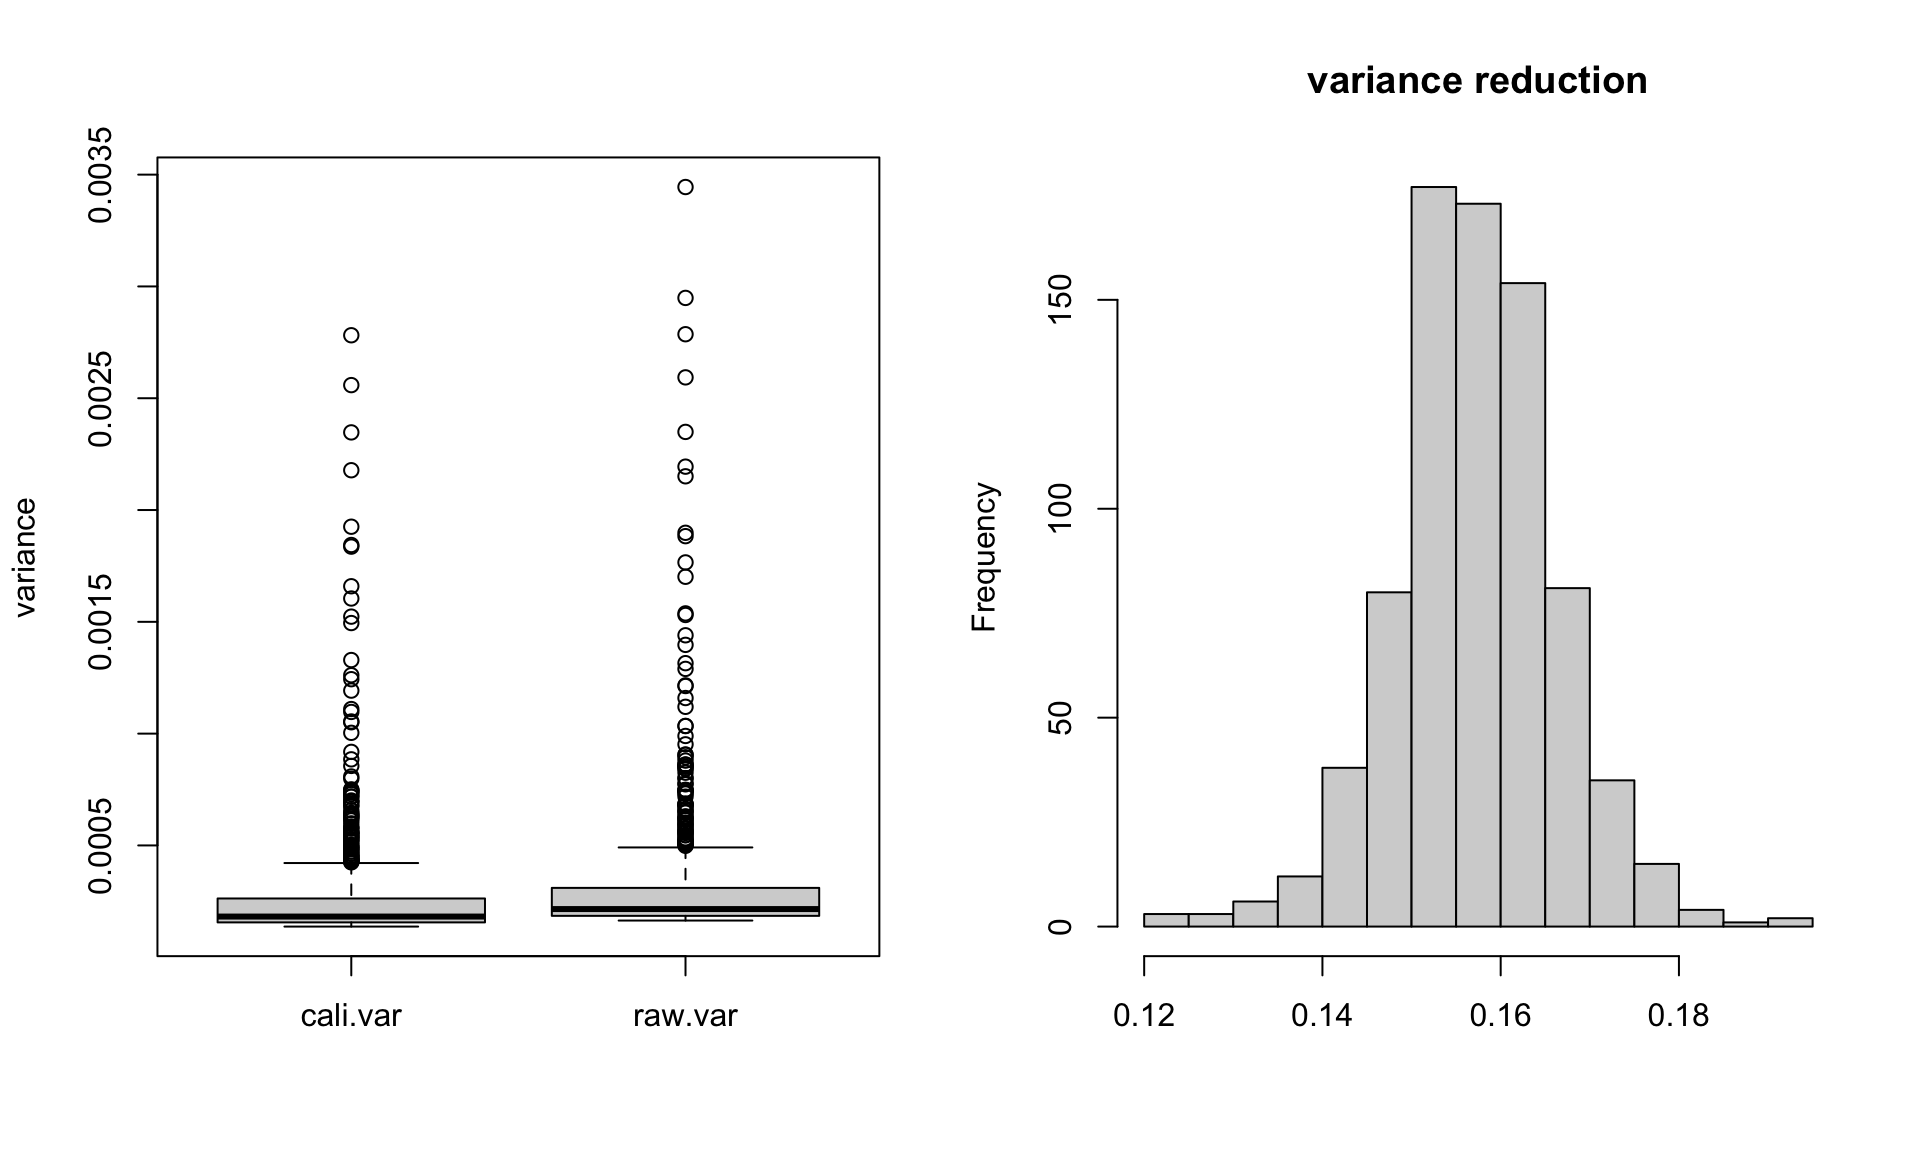
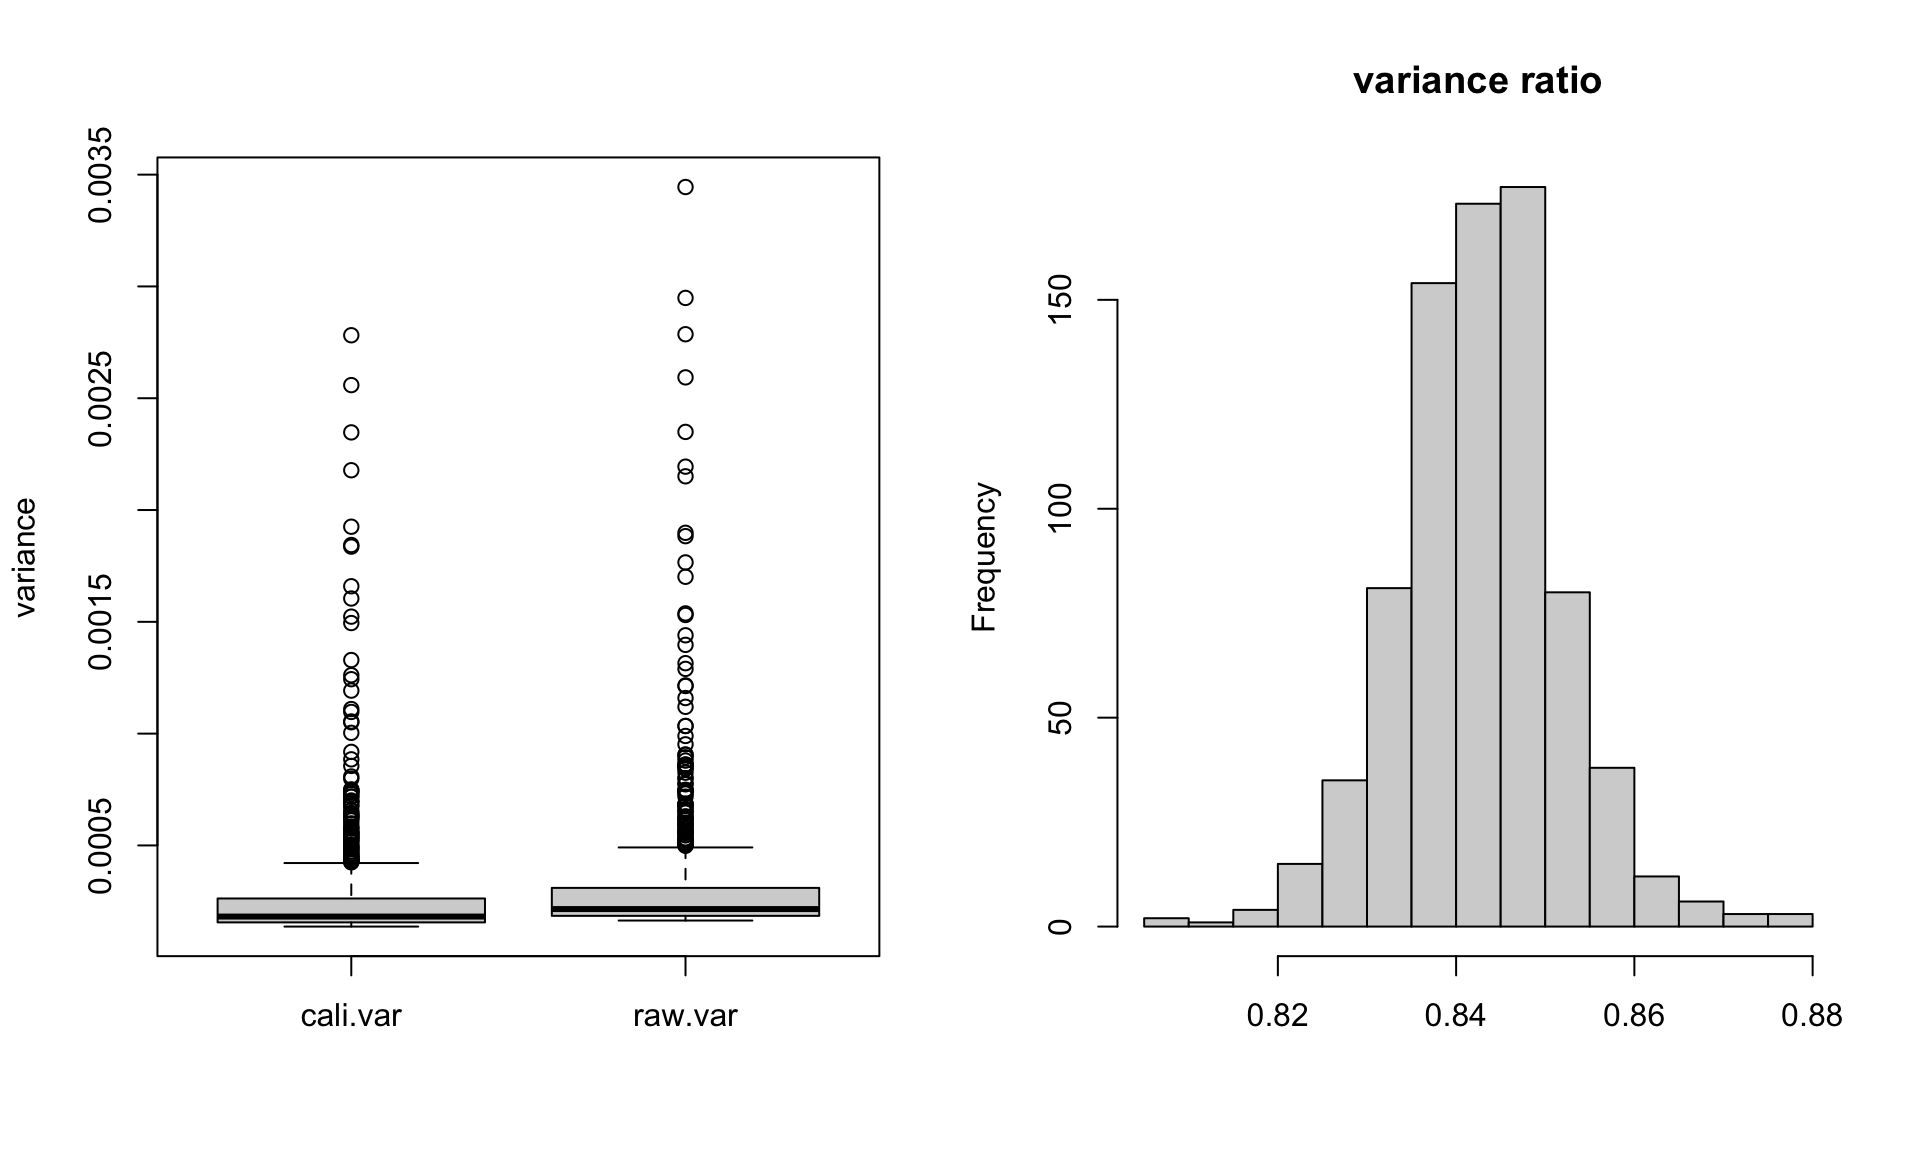
Build site.

diff --git a/docs/ukb_trait_calibration_sib.html b/docs/ukb_trait_calibration_sib.html
@@ -384,7 +384,7 @@ div.tocify {
 <div class="tab-content">
 <div id="summary" class="tab-pane fade in active">
 <p>
-<strong>Last updated:</strong> 2024-05-13
+<strong>Last updated:</strong> 2024-05-15
 </p>
 <p>
 <strong>Checks:</strong> <span class="glyphicon glyphicon-ok text-success" aria-hidden="true"></span> 7 <span class="glyphicon glyphicon-exclamation-sign text-danger" aria-hidden="true"></span> 0
@@ -475,16 +475,16 @@ This reproducible <a href="http://rmarkdown.rstudio.com">R Markdown</a> analysis
 <div class="panel panel-default">
 <div class="panel-heading">
 <p class="panel-title">
-<a data-toggle="collapse" data-parent="#workflowr-checks" href="#strongRepositoryversionstrongahrefhttpsgithubcomyunqiyang0215simulationcalibratedmrtree8581ebae091ebfb218a159ac72eaa2dbd3bc3c6atargetblank8581ebaa"> <span class="glyphicon glyphicon-ok text-success" aria-hidden="true"></span> <strong>Repository version:</strong> <a href="https://github.com/yunqiyang0215/simulation-calibrated-mr/tree/8581ebae091ebfb218a159ac72eaa2dbd3bc3c6a" target="_blank">8581eba</a> </a>
+<a data-toggle="collapse" data-parent="#workflowr-checks" href="#strongRepositoryversionstrongahrefhttpsgithubcomyunqiyang0215simulationcalibratedmrtree53af4b9a38be5829d8d97d7255de6143aabdc7d9targetblank53af4b9a"> <span class="glyphicon glyphicon-ok text-success" aria-hidden="true"></span> <strong>Repository version:</strong> <a href="https://github.com/yunqiyang0215/simulation-calibrated-mr/tree/53af4b9a38be5829d8d97d7255de6143aabdc7d9" target="_blank">53af4b9</a> </a>
 </p>
 </div>
[2 lines of base64/hex data omitted]
 <div class="panel-body">
 <p>
 Great! You are using Git for version control. Tracking code development and connecting the code version to the results is critical for reproducibility.
 </p>
 <p>
-The results in this page were generated with repository version <a href="https://github.com/yunqiyang0215/simulation-calibrated-mr/tree/8581ebae091ebfb218a159ac72eaa2dbd3bc3c6a" target="_blank">8581eba</a>. See the <em>Past versions</em> tab to see a history of the changes made to the R Markdown and HTML files.
+The results in this page were generated with repository version <a href="https://github.com/yunqiyang0215/simulation-calibrated-mr/tree/53af4b9a38be5829d8d97d7255de6143aabdc7d9" target="_blank">53af4b9</a>. See the <em>Past versions</em> tab to see a history of the changes made to the R Markdown and HTML files.
 </p>
 <p>
 Note that you need to be careful to ensure that all relevant files for the analysis have been committed to Git prior to generating the results (you can use <code>wflow_publish</code> or <code>wflow_git_commit</code>). workflowr only checks the R Markdown file, but you know if there are other scripts or data files that it depends on. Below is the status of the Git repository when the results were generated:
@@ -538,6 +538,40 @@ Message
 </tr>
 </thead>
 <tbody>
+<tr>
+<td>
+Rmd
+</td>
+<td>
+<a href="https://github.com/yunqiyang0215/simulation-calibrated-mr/blob/53af4b9a38be5829d8d97d7255de6143aabdc7d9/analysis/ukb_trait_calibration_sib.Rmd" target="_blank">53af4b9</a>
+</td>
+<td>
+yunqiyang0215
+</td>
+<td>
+2024-05-15
+</td>
+<td>
+wflow_publish("analysis/ukb_trait_calibration_sib.Rmd")
+</td>
+</tr>
+<tr>
+<td>
+html
+</td>
+<td>
+<a href="https://rawcdn.githack.com/yunqiyang0215/simulation-calibrated-mr/0ba6b1a084d61641780f934ae7f2198744bfbc51/docs/ukb_trait_calibration_sib.html" target="_blank">0ba6b1a</a>
+</td>
+<td>
+yunqiyang0215
+</td>
+<td>
+2024-05-13
+</td>
+<td>
+Build site.
+</td>
+</tr>
 <tr>
 <td>
 Rmd
@@ -712,10 +746,8 @@ sum(pval.ext &lt; 1e-8)</code></pre>
 <h4>Calibration result</h4>
 <pre class="r"><code>par(mfrow = c(1, 2))
 boxplot(dat[, c(&quot;cali.var&quot;, &quot;raw.var&quot;)], ylab = &quot;variance&quot;)
-vr = (dat$raw.var - dat$cali.var)/dat$raw.var
-mean(vr)</code></pre>
-<pre><code>[1] 0.1572405</code></pre>
-<pre class="r"><code>hist(vr, main = &quot;variance reduction&quot;, xlab = &quot;&quot;)</code></pre>
+vr = dat$cali.var/dat$raw.var
+hist(vr, main = &quot;variance ratio&quot;, xlab = &quot;&quot;)</code></pre>
 <p><img src="figure/ukb_trait_calibration_sib.Rmd/unnamed-chunk-5-1.png" width="960" style="display: block; margin: auto;" /></p>
 <p>
 <button type="button" class="btn btn-default btn-xs btn-workflowr btn-workflowr-fig" data-toggle="collapse" data-target="#fig-unnamed-chunk-5-1">
@@ -754,6 +786,8 @@ yunqiyang0215
 </table>
 </div>
 </div>
+<pre class="r"><code>mean(vr)</code></pre>
+<pre><code>[1] 0.8427595</code></pre>
 </div>
 </div>
 <div id="dbp" class="section level3">
@@ -831,9 +865,8 @@ sum(pval.ext &lt; 1e-8)</code></pre>
 <h4>Calibration result</h4>
 <pre class="r"><code>par(mfrow = c(1, 2))
 boxplot(dat[, c(&quot;cali.var&quot;, &quot;raw.var&quot;)], ylab = &quot;variance&quot;)
-vr = (dat$raw.var - dat$cali.var)/dat$raw.var
-mean(vr)</code></pre>
-<pre><code>[1] 0.1973165</code></pre>
+vr = dat$cali.var/dat$raw.var
+hist(vr, main = &quot;variance ratio&quot;, xlab = &quot;&quot;)</code></pre>
 <p><img src="figure/ukb_trait_calibration_sib.Rmd/unnamed-chunk-10-1.png" width="960" style="display: block; margin: auto;" /></p>
 <p>
 <button type="button" class="btn btn-default btn-xs btn-workflowr btn-workflowr-fig" data-toggle="collapse" data-target="#fig-unnamed-chunk-10-1">
@@ -857,6 +890,17 @@ Date
 </tr>
 </thead>
 <tbody>
+<tr>
+<td>
+<a href="https://github.com/yunqiyang0215/simulation-calibrated-mr/blob/0ba6b1a084d61641780f934ae7f2198744bfbc51/docs/figure/ukb_trait_calibration_sib.Rmd/unnamed-chunk-10-1.png" target="_blank">0ba6b1a</a>
+</td>
+<td>
+yunqiyang0215
+</td>
+<td>
+2024-05-13
+</td>
+</tr>
 <tr>
 <td>
 <a href="https://github.com/yunqiyang0215/simulation-calibrated-mr/blob/74f43038d502e928f3ff52fc114d2c3f77a3dc00/docs/figure/ukb_trait_calibration_sib.Rmd/unnamed-chunk-10-1.png" target="_blank">74f4303</a>
@@ -883,6 +927,8 @@ yunqiyang0215
 </table>
 </div>
 </div>
+<pre class="r"><code>mean(vr)</code></pre>
+<pre><code>[1] 0.8026835</code></pre>
 </div>
 </div>
 <div id="sbp" class="section level3">
@@ -960,9 +1006,8 @@ sum(pval.ext &lt; 1e-8)</code></pre>
 <h4>Calibration result</h4>
 <pre class="r"><code>par(mfrow = c(1, 2))
 boxplot(dat[, c(&quot;cali.var&quot;, &quot;raw.var&quot;)], ylab = &quot;variance&quot;)
-vr = (dat$raw.var - dat$cali.var)/dat$raw.var
-mean(vr)</code></pre>
-<pre><code>[1] 0.1946911</code></pre>
+vr = dat$cali.var/dat$raw.var
+hist(vr, main = &quot;variance ratio&quot;, xlab = &quot;&quot;)</code></pre>
 <p><img src="figure/ukb_trait_calibration_sib.Rmd/unnamed-chunk-15-1.png" width="960" style="display: block; margin: auto;" /></p>
 <p>
 <button type="button" class="btn btn-default btn-xs btn-workflowr btn-workflowr-fig" data-toggle="collapse" data-target="#fig-unnamed-chunk-15-1">
@@ -988,6 +1033,17 @@ Date
 <tbody>
 <tr>
 <td>
+<a href="https://github.com/yunqiyang0215/simulation-calibrated-mr/blob/0ba6b1a084d61641780f934ae7f2198744bfbc51/docs/figure/ukb_trait_calibration_sib.Rmd/unnamed-chunk-15-1.png" target="_blank">0ba6b1a</a>
+</td>
+<td>
+yunqiyang0215
+</td>
+<td>
+2024-05-13
+</td>
+</tr>
+<tr>
+<td>
 <a href="https://github.com/yunqiyang0215/simulation-calibrated-mr/blob/74f43038d502e928f3ff52fc114d2c3f77a3dc00/docs/figure/ukb_trait_calibration_sib.Rmd/unnamed-chunk-15-1.png" target="_blank">74f4303</a>
 </td>
 <td>
@@ -1001,6 +1057,78 @@ yunqiyang0215
 </table>
 </div>
 </div>
+<pre class="r"><code>mean(vr)</code></pre>
+<pre><code>[1] 0.8053089</code></pre>
+</div>
+</div>
+<div id="diabetes" class="section level3">
+<h3>4. diabetes</h3>
+<pre class="r"><code>sumstat = readRDS(&quot;/Users/nicholeyang/Downloads/calibrated_estimator/real-data-analysis/result/sib_calibration_diabetes.rds&quot;)
+ext = read.csv(&quot;/Users/nicholeyang/Downloads/calibrated_estimator/real-data-analysis/gwas_diabetes.linear&quot;, sep = &quot;\t&quot;)</code></pre>
+<pre class="r"><code>sumstat = as.data.frame(sumstat)
+sumstat[, c(3:8)] = apply(sumstat[, c(3:8)], 2, as.numeric)
+dat = merge(sumstat, ext, by.x = &quot;variant&quot;, by.y = &quot;ID&quot;, all = FALSE)
+# flip sign of effect if the allele tested is different
+dat$BETA = ifelse(dat$allele.test == dat$A1, dat$BETA, -dat$BETA)</code></pre>
+<pre class="r"><code># check estimate scale
+par(mfrow = c(2,2))
+
+plot(dat$cali, dat$raw, xlab = &quot;calibrated estimator&quot;, ylab = &quot;uncalibrated estimator&quot;)
+abline(a = 0, b = 1, col = &quot;red&quot;)
+plot(dat$BETA, dat$int, xlab = &quot;external gwas&quot;, ylab = &quot;internal gwas&quot;)
+abline(a = 0, b = 1, col = &quot;red&quot;)
+
+hist(dat$cali - dat$raw, main = &quot;Differece: calibrated estimator - uncalibrated estimator&quot;, xlab = &quot;&quot;)
+hist(dat$int - dat$BETA, main = &quot;Difference: internal gwas - external gwas&quot;, xlab = &quot;&quot;)</code></pre>
+<p><img src="figure/ukb_trait_calibration_sib.Rmd/unnamed-chunk-18-1.png" width="768" style="display: block; margin: auto;" /></p>
+<pre class="r"><code>cor(dat$cali, dat$raw)</code></pre>
+<pre><code>[1] 0.8771157</code></pre>
+<pre class="r"><code>cor(dat$BETA, dat$int)</code></pre>
+<pre><code>[1] 0.3480974</code></pre>
+<div id="calibration-result-3" class="section level4">
+<h4>Calibration result</h4>
+<pre class="r"><code>par(mfrow = c(1, 2))
+boxplot(dat[, c(&quot;cali.var&quot;, &quot;raw.var&quot;)], ylab = &quot;variance&quot;)
+vr = dat$cali.var/dat$raw.var
+hist(vr, main = &quot;variance ratio&quot;, xlab = &quot;&quot;)</code></pre>
+<p><img src="figure/ukb_trait_calibration_sib.Rmd/unnamed-chunk-19-1.png" width="960" style="display: block; margin: auto;" /></p>
+<pre class="r"><code>mean(vr)</code></pre>
+<pre><code>[1] 0.785382</code></pre>
+</div>
+</div>
+<div id="education-years" class="section level3">
+<h3>5. Education years</h3>
+<pre class="r"><code>sumstat = readRDS(&quot;/Users/nicholeyang/Downloads/calibrated_estimator/real-data-analysis/result/sib_calibration_education_yrs.rds&quot;)
+ext = read.csv(&quot;/Users/nicholeyang/Downloads/calibrated_estimator/real-data-analysis/gwas_education_yrs.linear&quot;, sep = &quot;\t&quot;)</code></pre>
+<pre class="r"><code>sumstat = as.data.frame(sumstat)
+sumstat[, c(3:8)] = apply(sumstat[, c(3:8)], 2, as.numeric)
+dat = merge(sumstat, ext, by.x = &quot;variant&quot;, by.y = &quot;ID&quot;, all = FALSE)
+# flip sign of effect if the allele tested is different
+dat$BETA = ifelse(dat$allele.test == dat$A1, dat$BETA, -dat$BETA)</code></pre>
+<pre class="r"><code># check estimate scale
+par(mfrow = c(2,2))
+
+plot(dat$cali, dat$raw, xlab = &quot;calibrated estimator&quot;, ylab = &quot;uncalibrated estimator&quot;)
+abline(a = 0, b = 1, col = &quot;red&quot;)
+plot(dat$BETA, dat$int, xlab = &quot;external gwas&quot;, ylab = &quot;internal gwas&quot;)
+abline(a = 0, b = 1, col = &quot;red&quot;)
+
+hist(dat$cali - dat$raw, main = &quot;Differece: calibrated estimator - uncalibrated estimator&quot;, xlab = &quot;&quot;)
+hist(dat$int - dat$BETA, main = &quot;Difference: internal gwas - external gwas&quot;, xlab = &quot;&quot;)</code></pre>
+<p><img src="figure/ukb_trait_calibration_sib.Rmd/unnamed-chunk-22-1.png" width="768" style="display: block; margin: auto;" /></p>
+<pre class="r"><code>cor(dat$cali, dat$raw)</code></pre>
+<pre><code>[1] 0.8696098</code></pre>
+<pre class="r"><code>cor(dat$BETA, dat$int)</code></pre>
+<pre><code>[1] -0.2253207</code></pre>
+<div id="calibration-result-4" class="section level4">
+<h4>Calibration result</h4>
+<pre class="r"><code>par(mfrow = c(1, 2))
+boxplot(dat[, c(&quot;cali.var&quot;, &quot;raw.var&quot;)], ylab = &quot;variance&quot;)
+vr = dat$cali.var/dat$raw.var
+hist(vr, main = &quot;variance ratio&quot;, xlab = &quot;&quot;)</code></pre>
+<p><img src="figure/ukb_trait_calibration_sib.Rmd/unnamed-chunk-23-1.png" width="960" style="display: block; margin: auto;" /></p>
+<pre class="r"><code>mean(vr)</code></pre>
+<pre><code>[1] 0.8539187</code></pre>
 <br>
 <p>
 <button type="button" class="btn btn-default btn-workflowr btn-workflowr-sessioninfo" data-toggle="collapse" data-target="#workflowr-sessioninfo" style="display: block;">
